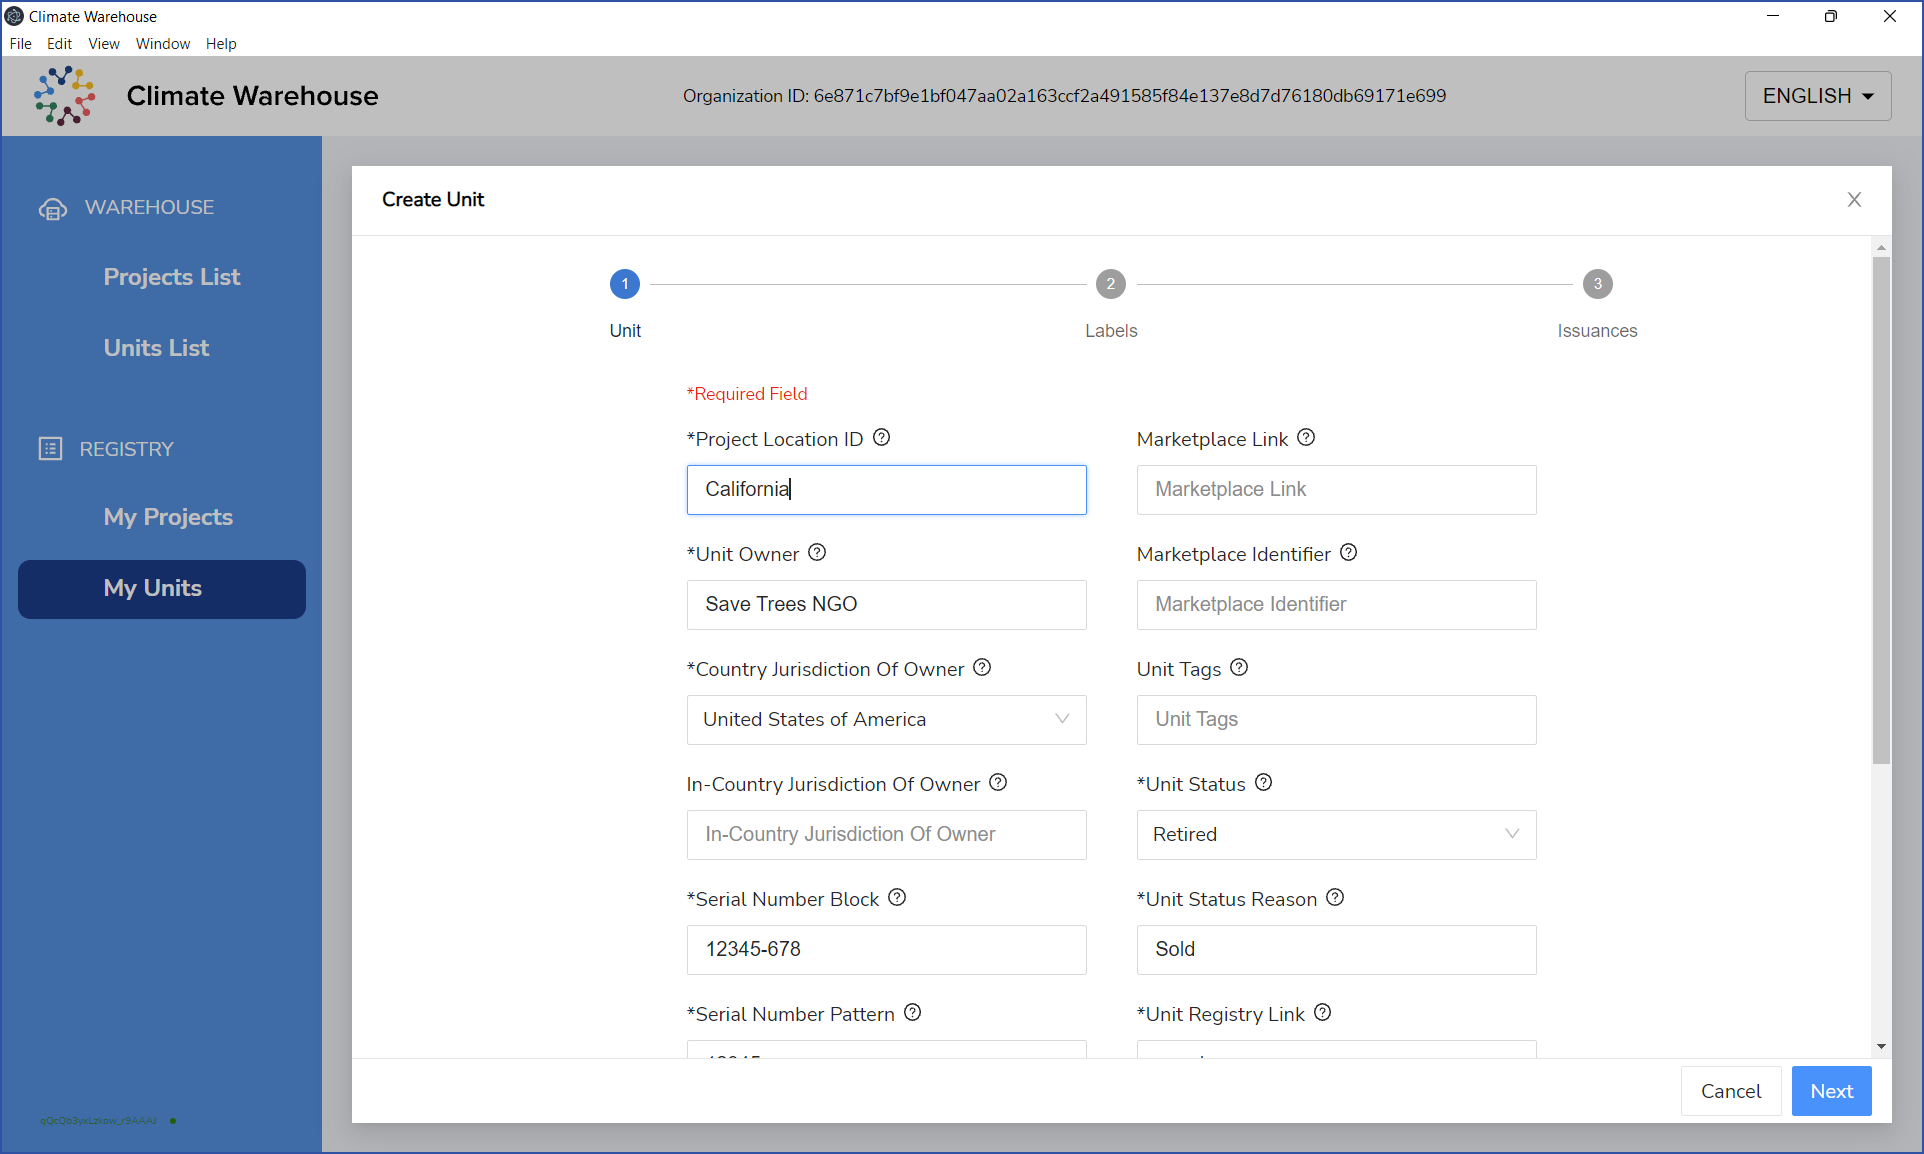
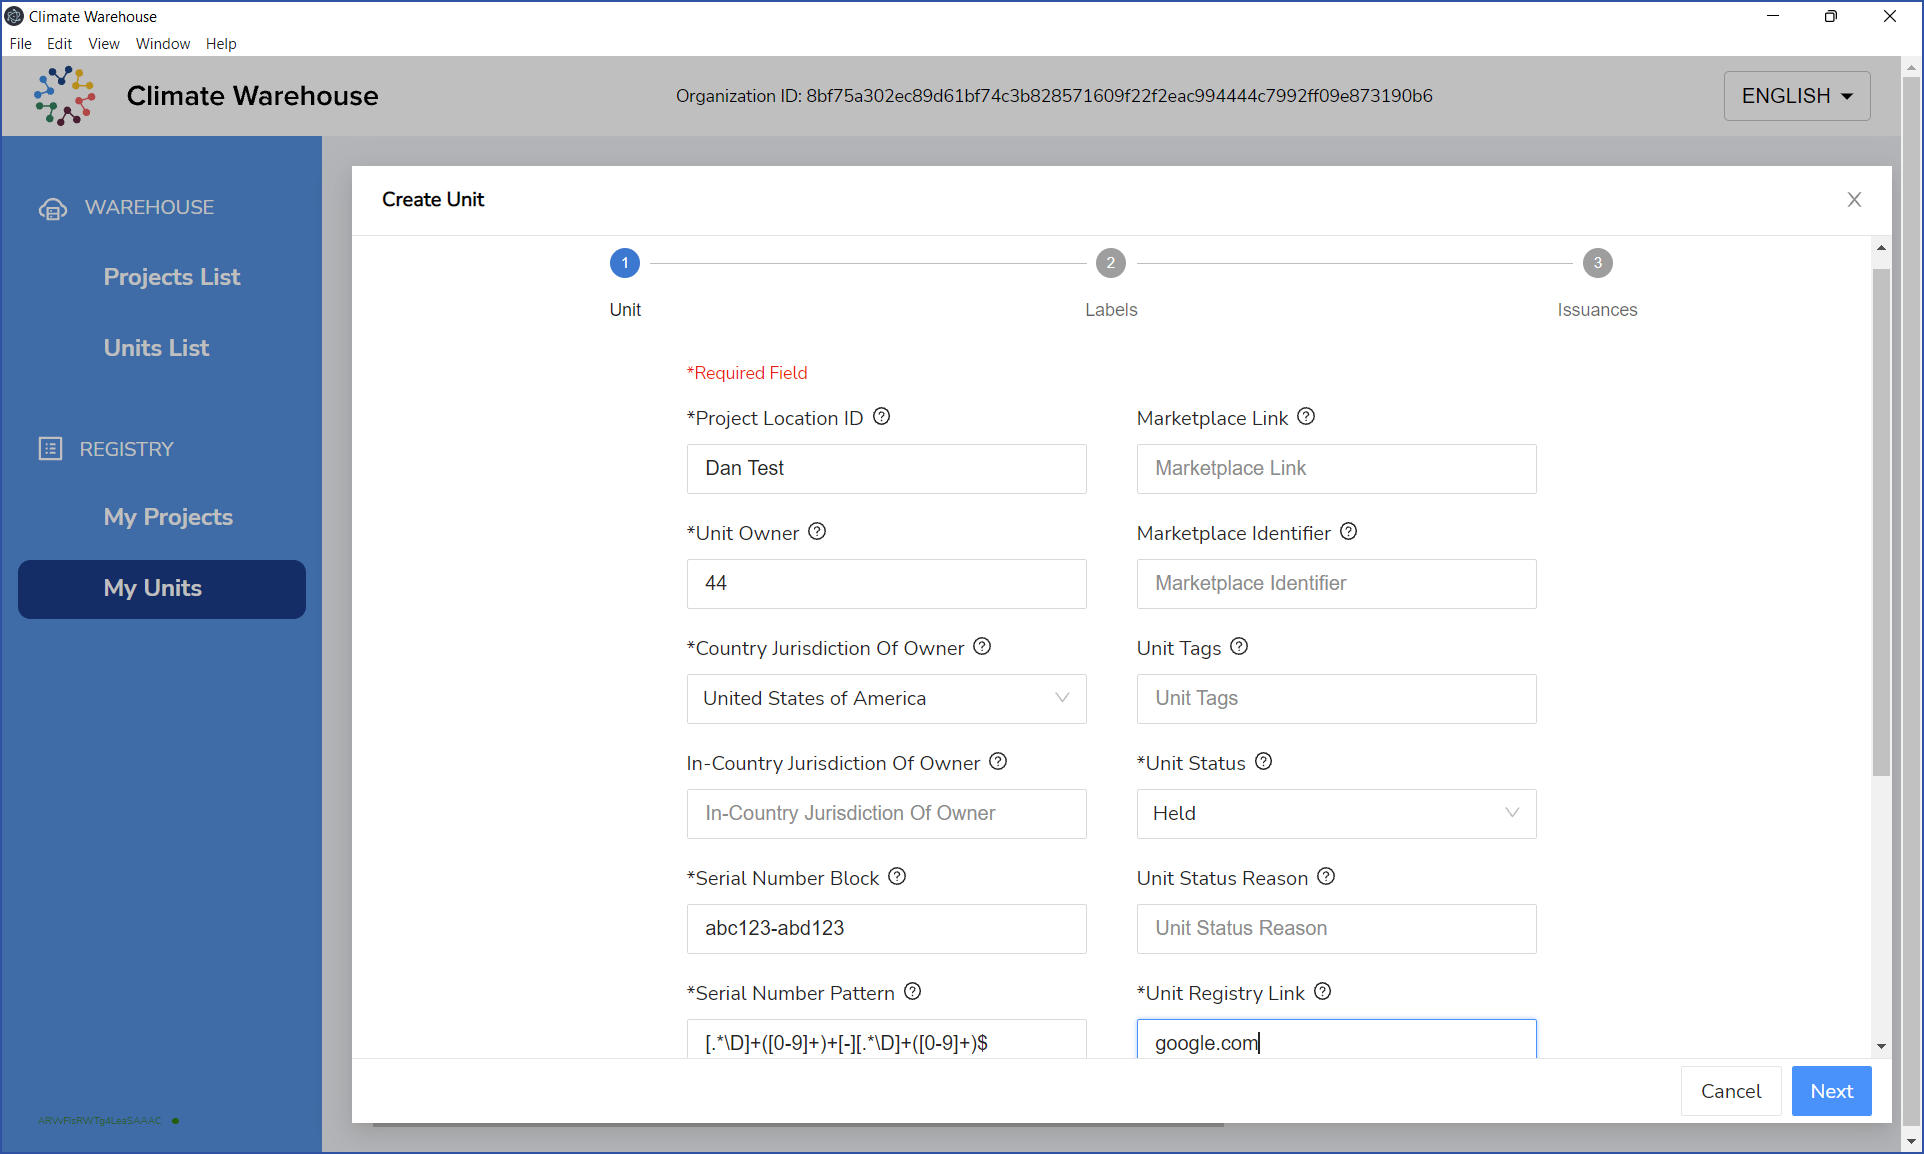
Add create new unit to tutorial

diff --git a/docs/15resources/data_layer_install_guide_testnet.md b/docs/15resources/data_layer_install_guide_testnet.md
@@ -545,6 +545,7 @@ You have successfully installed the Climate Warehouse. The rest of this document
   * In-Country Jurisdiction Of Owner -- If applicable, enter the region within the country selected above.
   * *Serial Number Block -- Enter the serial number block.
   * *Serial Number Pattern -- If the serial number format is different from what your organization typically uses, please enter the format here.
+    >**Note: It is very important to use a well-formed regex pattern.** For example, to use a combination of letters and numbers with a hyphen separating them, use `[.*\D]+([0-9]+)+[-][.*\D]+([0-9]+)$`. With this pattern, serial numbers such as `abc100-abd100`, `abcde1-a12345`, and `a1-b2-c3` are all valid.
   * *Vintage Year -- Enter the year in which the units were awarded.
   * *Unit Type -- Select the type that best describes the units produced.
   * Marketplace -- Select, or manually enter, the market on which the units are listed, if applicable.
@@ -563,3 +564,29 @@ You have successfully installed the Climate Warehouse. The rest of this document
 <figure>
   <img src="images/climate_warehouse/17_create_unit.png" alt="Step 3 to register a unit."/>
 </figure>
+
+4. You'll receive a message that the unit was successfully created. Your unit will be held in `STAGING` until you click the `Commit` button.
+
+<figure>
+  <img src="images/climate_warehouse/18_unit_create_success.png" alt="Success creating a unit"/>
+</figure>
+
+5. After you click the `Commit` button, you'll receive a message that the transactions have been committed. They will now be `PENDING`.
+
+<figure>
+  <img src="images/climate_warehouse/19_unit_pending.png" alt="Unit committed pending"/>
+</figure>
+
+6. The blockchain will confirm the transactions after a few minutes. `No pending data at this time` will be displayed.
+
+<figure>
+  <img src="images/climate_warehouse/20_no_units_pending.png" alt="No units pending"/>
+</figure>
+
+7. Your unit will now be listed in the COMMITTED tab.
+
+<figure>
+  <img src="images/climate_warehouse/21_unit_committed.png" alt="New unit listed"/>
+</figure>
+
+  You have successfully created your new unit.

diff --git a/docs/13cli/cli.md b/docs/13cli/cli.md
@@ -1,6 +1,6 @@
 ---
 sidebar_position: 1
 ---
+# Index of commands
 
-# TODO
-For now we recommend you refer to the [CLI documentation](https://github.com/Chia-Network/chia-blockchain/wiki/CLI-Commands-Reference) on the chia-blockchain wiki.
+We plan to add a reference doc for each of our CLI commands in this section. For now, we have a selection of commands documented on our [wiki](https://github.com/Chia-Network/chia-blockchain/wiki/CLI-Commands-Reference).
